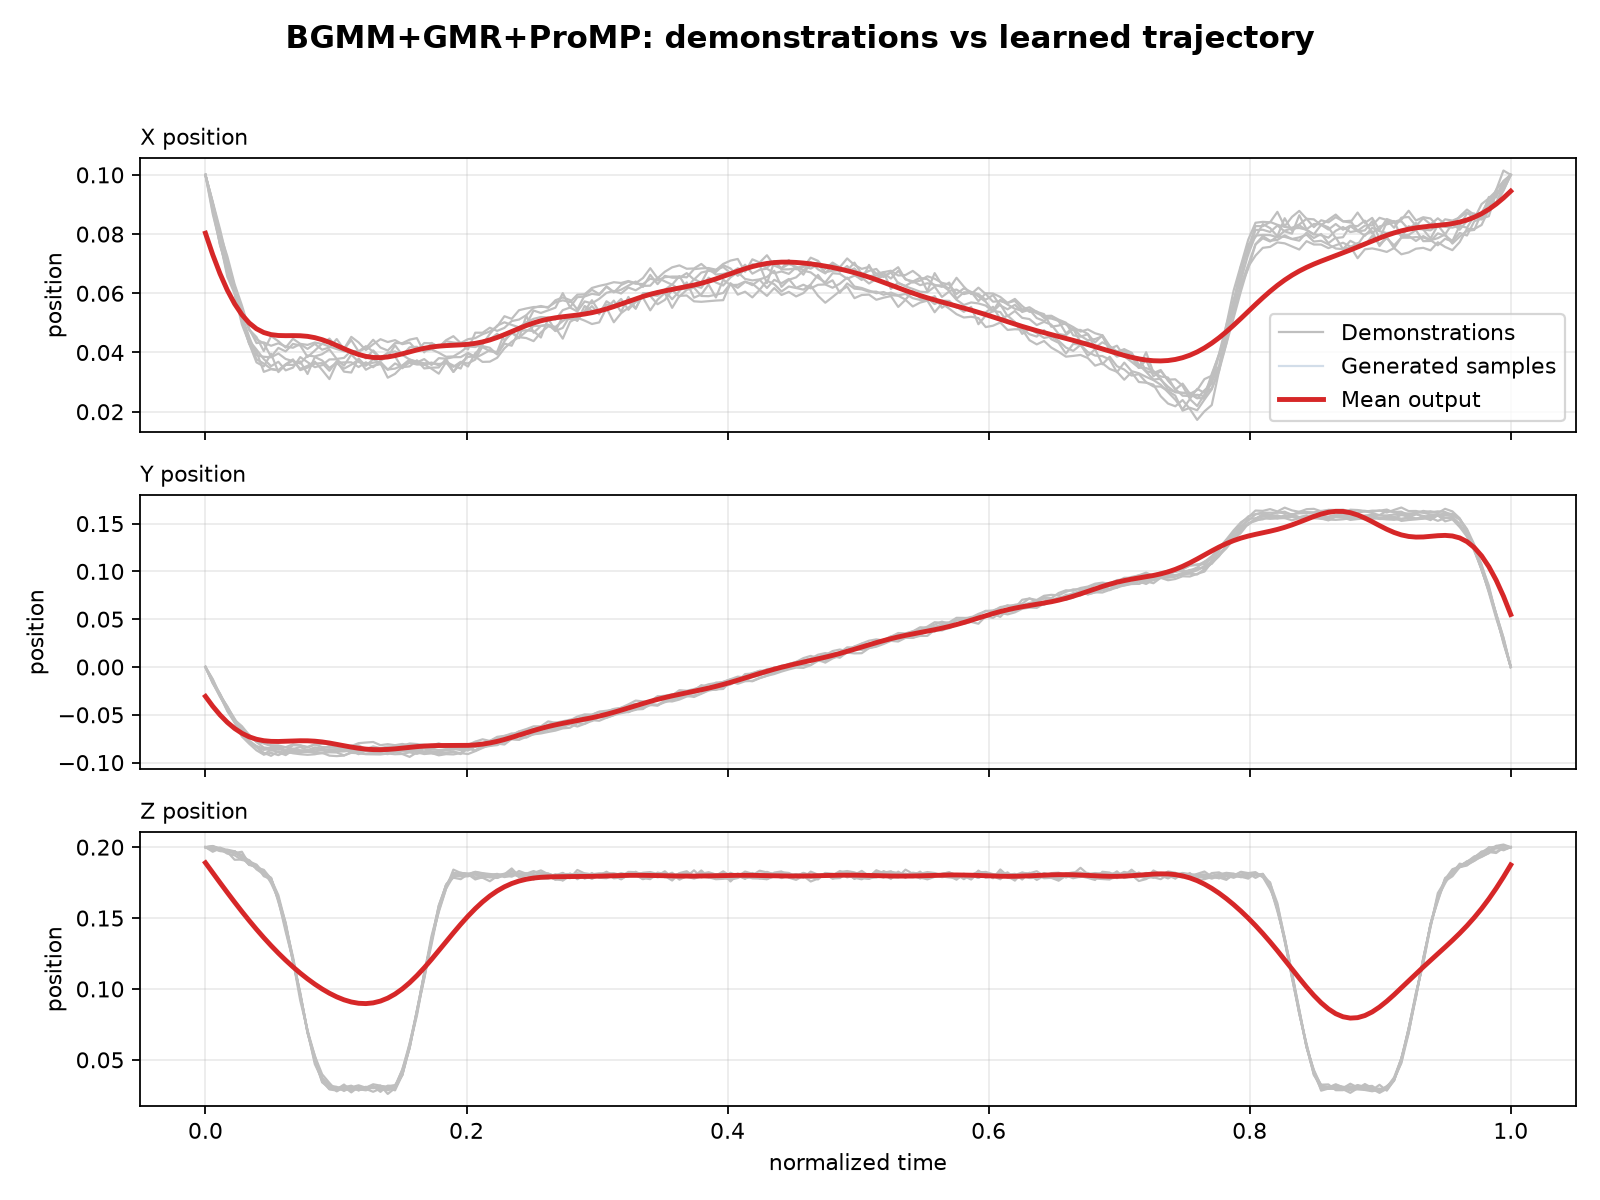
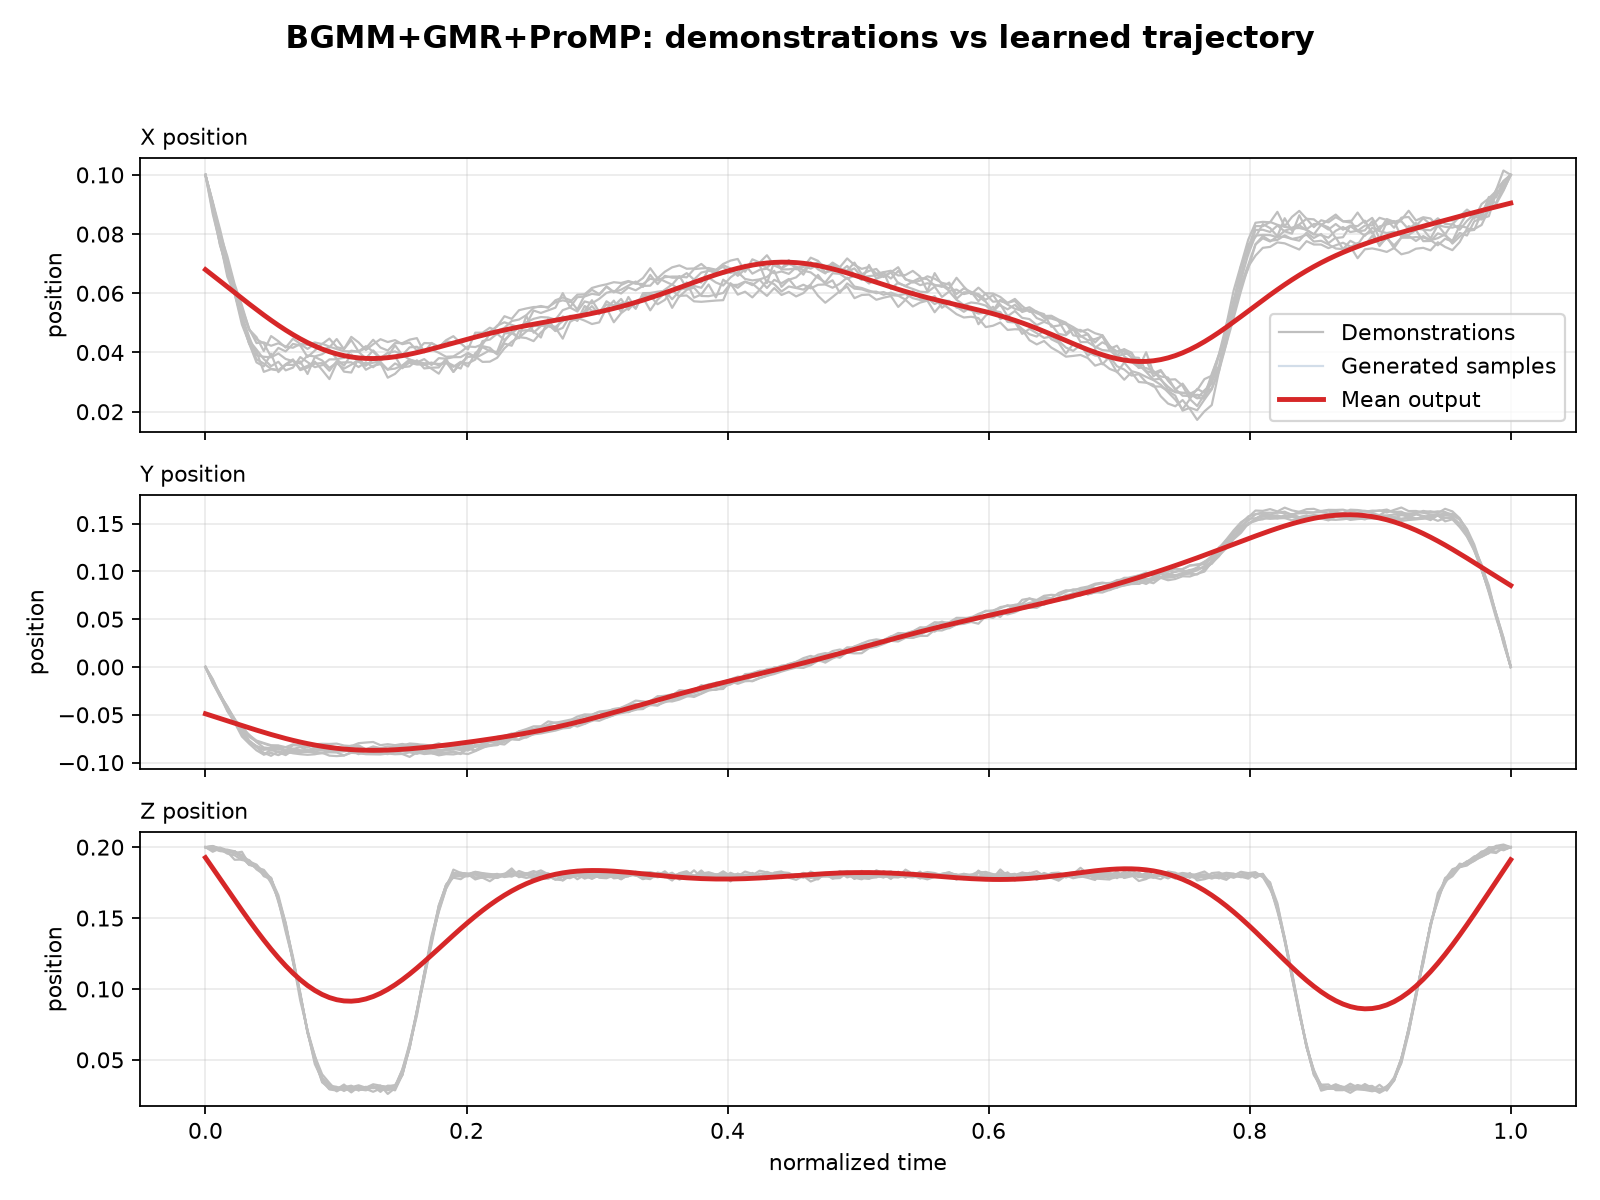
tune BGMM ProMP for Z tracking

diff --git a/models/algorithm_metrics.md b/models/algorithm_metrics.md
@@ -5,6 +5,6 @@
 | GMM+GMR+DMP | 0.9727 | 0.0204 | 0.9349 | 0.9939 | 0.9668 | 0.9950 | 0.0069 | 0.0100 | 0.0168 | 0.0480 |
 | Inc-GMM+GMR+DMP | 0.9958 | 0.0044 | 0.9874 | 0.9994 | 0.9964 | 0.9999 | 0.0040 | 0.0039 | 0.0047 | 0.0051 |
 | GMM+GMR+Segmented DMP | 0.9605 | 0.0256 | 0.9180 | 0.9708 | 0.9604 | 0.9929 | 0.0075 | 0.0214 | 0.0183 | 0.0550 |
-| BGMM+GMR+ProMP | 0.9507 | 0.0375 | 0.9328 | 0.9936 | 0.9049 | 0.9714 | 0.0072 | 0.0104 | 0.0282 | 0.1043 |
+| BGMM+GMR+ProMP | 0.9374 | 0.0403 | 0.9074 | 0.9895 | 0.8849 | 0.9678 | 0.0080 | 0.0130 | 0.0296 | 0.1106 |
 
 Generated by `python -m dobot_algorithms.scripts.train_models --config configs/default.yaml`.

diff --git a/models/suction_arm/stage_metrics.md b/models/suction_arm/stage_metrics.md
@@ -9,4 +9,4 @@
 | GMR | GMM+GMR+Segmented DMP | 0.9727 | 0.0204 |
 | Primitive | GMM+GMR+Segmented DMP | 0.9605 | 0.0256 |
 | GMR | BGMM+GMR+ProMP | 0.9470 | 0.0380 |
-| Primitive | BGMM+GMR+ProMP | 0.9507 | 0.0375 |
+| Primitive | BGMM+GMR+ProMP | 0.9374 | 0.0403 |
